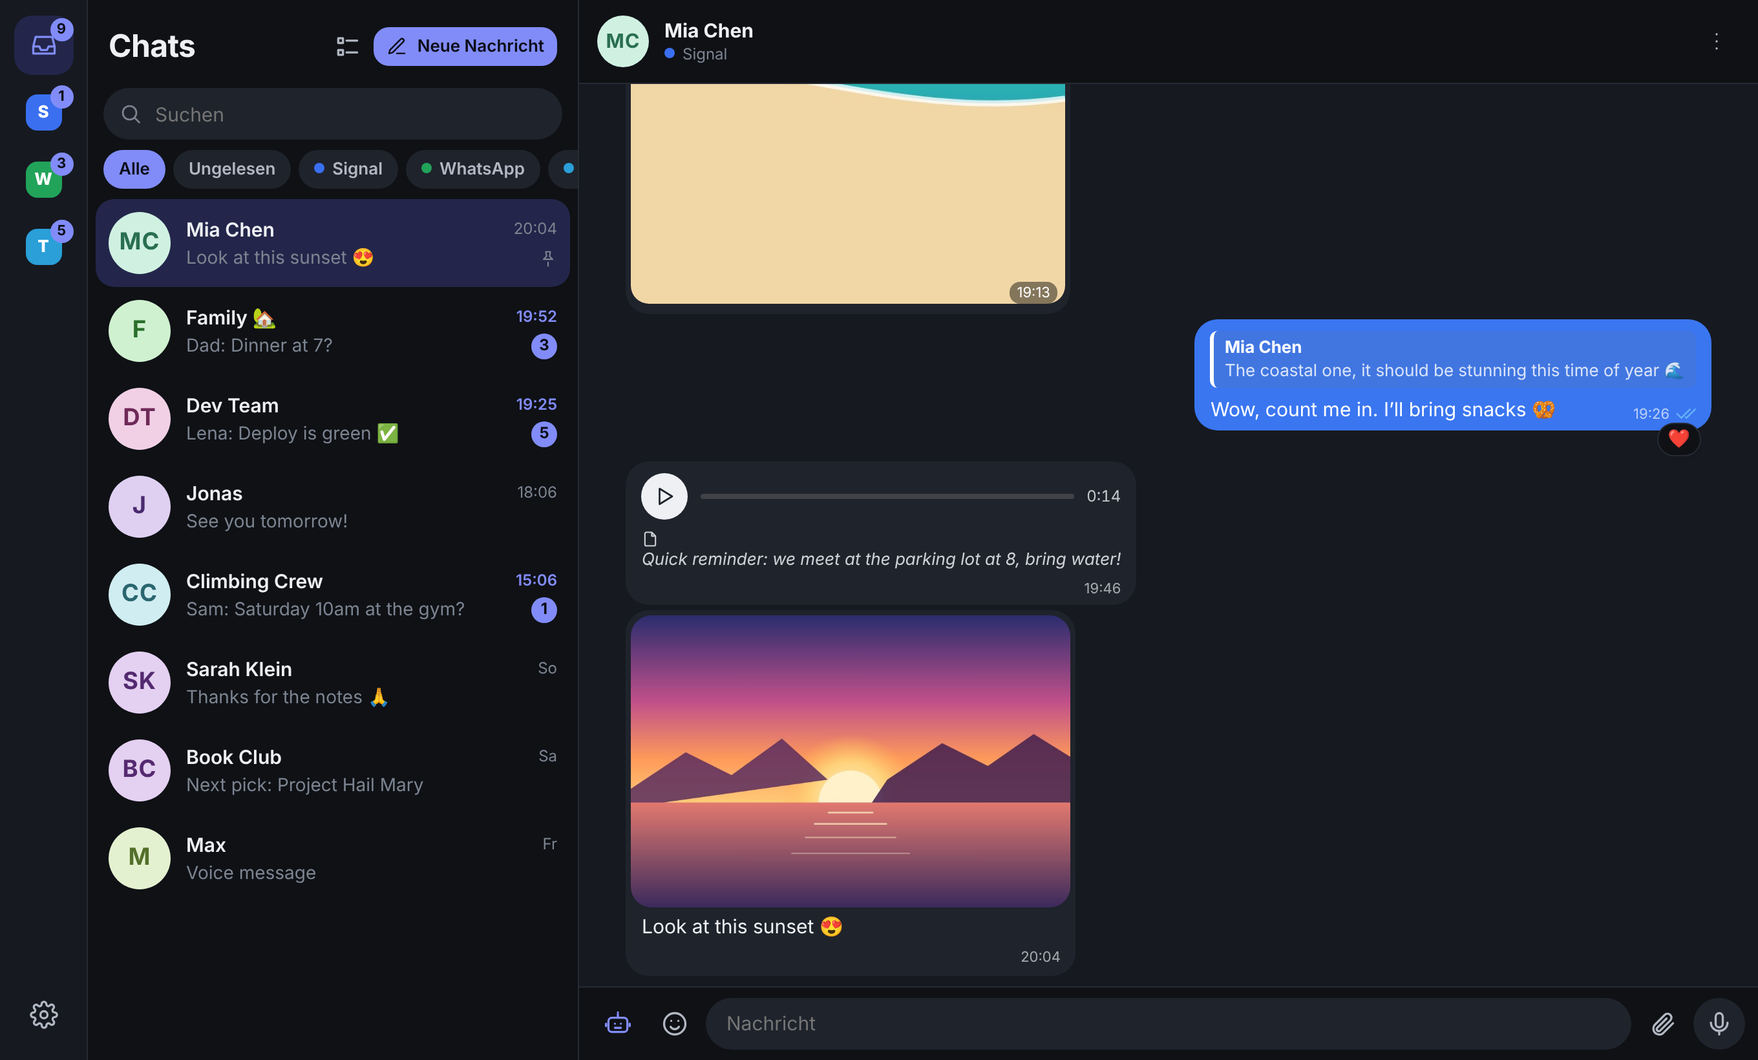
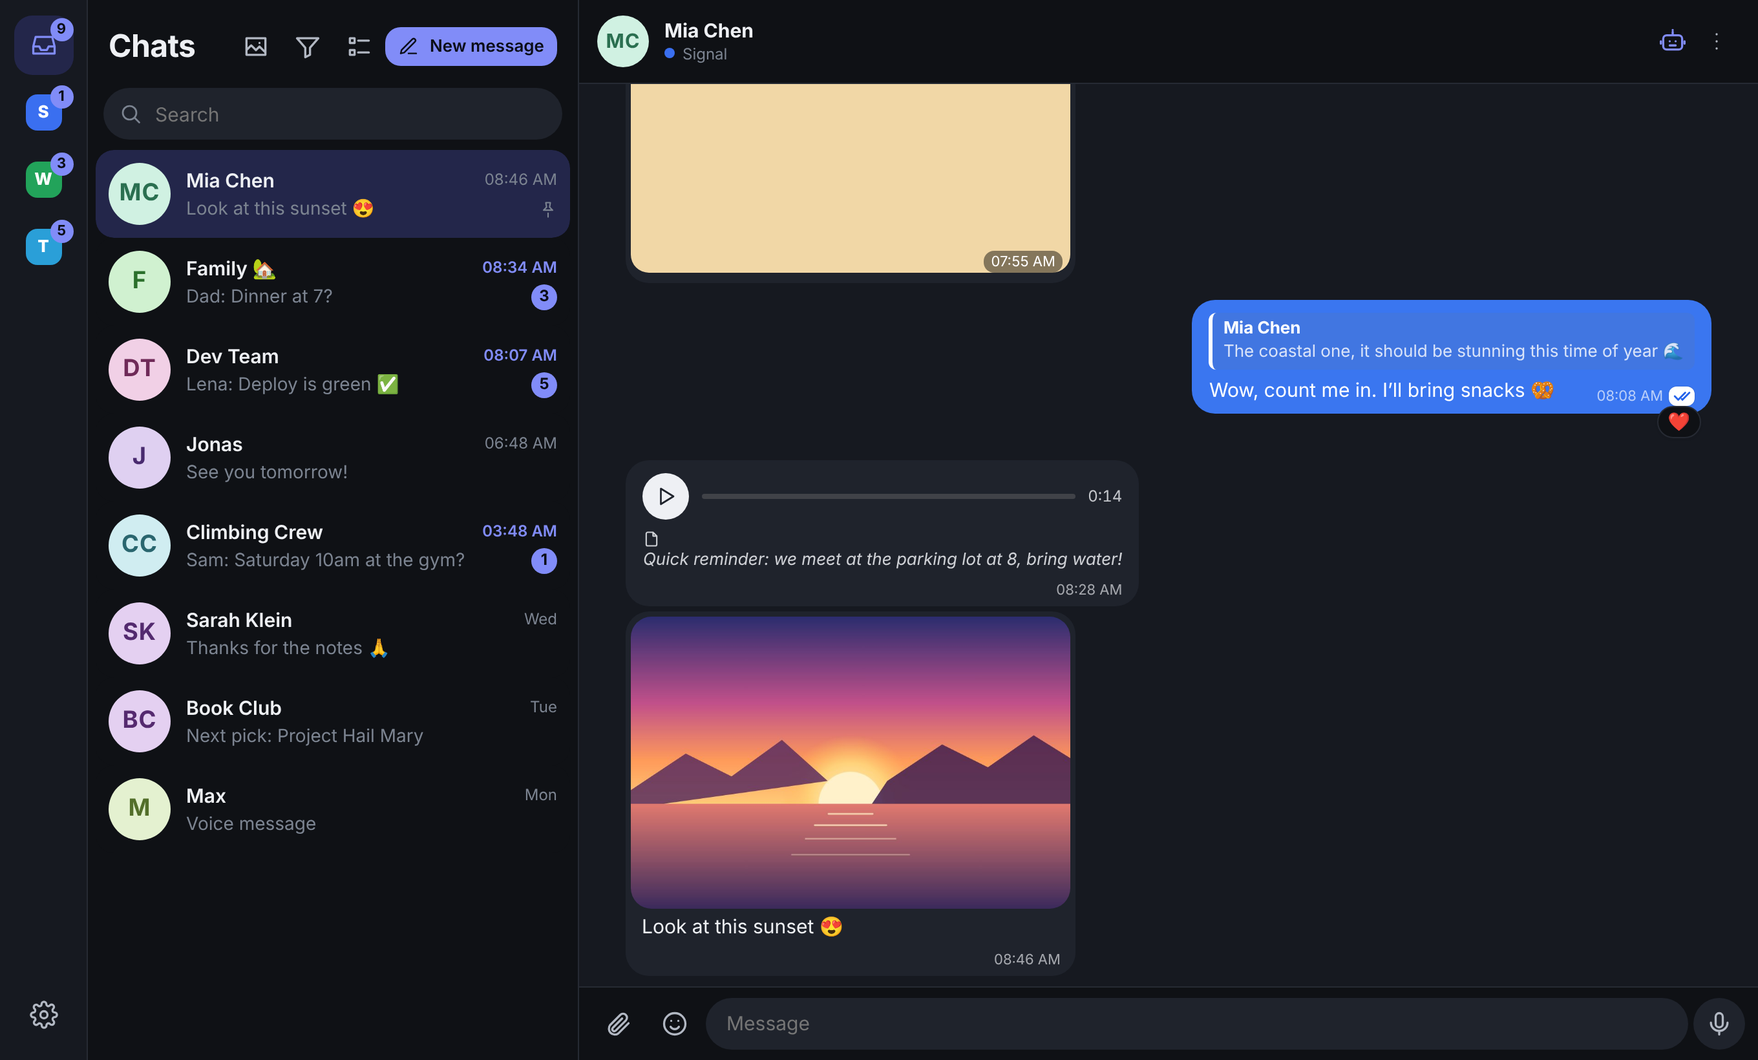
Version 0.5.0: README (en/de), Release-Notes, neue Screenshots
- README: E-Mail, Englisch/Deutsch, ChatGPT/OpenAI-kompatibel, Darstellung, Mosaik, Dateivorschau, aktuelle Wischgesten
- README.de.md an die englische Fassung angeglichen
- Screenshots mit englischer Oberfläche neu erzeugt (capture.cjs: Mocks ergänzt)

Claude-Session: https://claude.ai/code/session_011JkhW7Q2o4s9MoXKtkL4fg

diff --git a/server/src/index.ts b/server/src/index.ts
@@ -32,7 +32,7 @@ import { toOggOpusTimed, toMp3, editVideo, parseVideoEdit } from './audio.js';
 import { exportZip, slug } from './export.js';
 import * as totp from './totp.js';
 
-const VERSION = '0.4.1';
+const VERSION = '0.5.0';
 const PORT = Number(process.env.PORT ?? 8080);
 const HOST = process.env.HOST ?? '0.0.0.0';
 const require_ = createRequire(import.meta.url);

diff --git a/README.md b/README.md
@@ -5,7 +5,7 @@
 <h1 align="center">Chorus</h1>
 
 <p align="center">
-  <b>Signal, WhatsApp and Telegram in one calm, self-hosted inbox.</b><br />
+  <b>Signal, WhatsApp, Telegram and email in one calm, self-hosted inbox.</b><br />
   End-to-end on your own server · encrypted at rest · installable as an app on your phone
 </p>
 
@@ -35,49 +35,49 @@
 
 ## Why Chorus?
 
-Most of us juggle three messengers. Chorus puts every chat into one inbox that runs on **your** hardware: a Raspberry Pi, a NAS, a small VPS or a Proxmox container. You open it in any browser or install it on your phone's home screen like a native app. Your messages never pass through a third-party service.
+Most of us juggle three messengers and an inbox. Chorus puts every chat into one inbox that runs on **your** hardware: a Raspberry Pi, a NAS, a small VPS or a Proxmox container. You open it in any browser or install it on your phone's home screen like a native app. Your messages never pass through a third-party service.
 
-The interface is deliberately quiet and iOS-like: soft colours, smooth motion and nothing that blinks for attention.
-
-> The user interface is currently in **German**. An English translation is on the roadmap. Contributions are welcome.
+The interface is deliberately quiet and iOS-like: soft colours, smooth motion and nothing that blinks for attention. It speaks **English and German** (automatic by device language, switchable under Settings → Language).
 
 ## Features
 
 ### Messaging
-- **One inbox** for Signal, WhatsApp and Telegram, filterable by messenger (combine several) or "unread"
-- Replies, reactions, editing, deleting, read receipts, pinned and muted chats, drafts per chat
-- **Swipe gestures** on the phone: left to archive, right to mark as read/unread. Long-press for multi-select, pull down to refresh
+- **One inbox** for Signal, WhatsApp, Telegram and **email** (IMAP/SMTP: each sender becomes a contact, each subject a chat), filterable by messenger (combine several) or "unread"
+- Replies, reactions, editing, deleting, forwarding (also across messengers), read receipts, pinned and muted chats, drafts per chat
+- **Swipe gestures** on the phone: left to delete, right to archive, far right for read/unread. Long-press for multi-select
 - **Archive** that stays quiet: archived chats don't count towards the badge and don't notify
 - **Contact profiles** with your own alias, picture and notes; number, status and members come from the messenger
-- Profile pictures are fetched automatically and gently, without hitting rate limits
-- **Merge contacts** across messengers: the same person on Signal and WhatsApp becomes one chat with a shared history; pick in the contact profile which messenger you reply through (or let Chorus use the one they last wrote on)
+- **Merge contacts** across messengers: the same person on Signal and WhatsApp becomes one chat with a shared history; pick which messenger you reply through (or let Chorus use the one they last wrote on)
 - **Send later**: hold the send button and pick a time; scheduled messages wait in the chat until they go out
 - **Reminders** on any message ("remind me tomorrow morning"), with a notification that jumps right back to it
+- Failed messages show why they failed, with **Resend** and **Delete**
 - **Search across all messengers**: messages, transcripts and file names, with a jump to the hit in the chat
 - **Gallery** of all photos, videos, files, links and voice messages, per chat or across all chats
-- **Save to Immich or Nextcloud** (optional): link your own Immich (API key with `asset.upload`) and/or Nextcloud (app password, WebDAV) under Settings → Storage. Photos and videos go to Immich with one tap in the full-screen view, files to Nextcloud with a folder browser ("save as", new folder) and you can attach files from Nextcloud or photos from your Immich library (recent, albums, smart search) when sending; the server uploads the original, credentials stay encrypted on the server
 
 ### Media
 - Send photos, videos, voice messages and files (drag & drop or paste on the desktop)
+- Several photos in a row appear as a **mosaic**; the full-screen viewer swipes through the album, double-tap zooms
 - **Image editor** before sending: crop with fixed ratios, rotate, flip, pen, highlighter, arrows, shapes, text, pixelate, select and move, undo/redo
 - **Video editor**: trim with a thumbnail timeline and crop to 1:1, 4:3, 16:9 or 9:16 (cut on the server with ffmpeg)
-- Instant upload bubbles with progress, so you never wonder whether something is happening
-- Full-screen viewer with swipe-to-close, voice messages at 1.5×/2× with a mini player that keeps playing while you switch chats
+- In-app **file preview** (PDF, text) with share/save
+- Voice messages at 1.5×/2× with a mini player that keeps playing while you switch chats
+- **Save to Immich or Nextcloud** (optional): photos and videos go to Immich with one tap, files to Nextcloud with a folder browser; attach photos from your Immich library (recent, albums, smart search) or files from Nextcloud. The server uploads the original, credentials stay encrypted on the server
 
 ### AI assistant (optional, per chat, opt-in)
-Bring your own [Anthropic](https://console.anthropic.com) and [ElevenLabs](https://elevenlabs.io) keys:
+Bring your own key for **Claude** ([Anthropic](https://console.anthropic.com)) or **ChatGPT** ([OpenAI](https://platform.openai.com)), or point Chorus at any **OpenAI-compatible** service such as Ollama, LM Studio or OpenRouter, even locally without a key. Voice features use [ElevenLabs](https://elevenlabs.io).
 - **Summarise** a chat: what it's about, what's agreed, what's still open
-- **Write for me**: type or dictate "tell her I'm at the gym and will call later" and send it as text or as a voice message **in your own (cloned) voice**. Everything the AI wrote is marked with a 🤖 reaction (on Telegram, which does not allow it as a reaction, with a 🤖 at the end)
-- **Suggested replies**, optionally with a direction ("politely decline")
+- **Reply suggestions** as chips above the input field, and on request with a direction ("politely decline")
+- **Write for me**: type or dictate "tell her I'm at the gym and will call later" and send it as text or as a voice message **in your own (cloned) voice**. Everything the AI wrote can be marked with 🤖
 - **Transcribe** voice messages
-- **Live translation** per chat: foreign messages get a German translation under the bubble (with the source language), and what you write in German goes out in their language (can be switched off per chat or per message)
+- **Live translation** per chat: foreign messages get a translation into your language under the bubble, and what you write goes out in theirs (switchable per chat or per message)
 - **Ask your chats**: "When did Lisa want to come over?" gets an answer with the messages it is based on
-- **Autobot**: Claude answers on your behalf up to a limit you set, in groups you choose what it answers (questions to everyone, only mentions and replies to you, or everything), from whom, under which condition and in which style (like you, short, or creative). Answers are marked with a 🤖 reaction
+- **Autobot**: the AI answers on your behalf up to a limit you set; in groups you choose what it answers, from whom, under which condition and in which style
 
-Nothing is sent to an AI provider unless you enable AI for that chat and press a button.
+Nothing is sent to an AI provider unless you allow AI for that chat. You can revoke it at any time.
 
 ### Everyday comfort
-- Installable **PWA** with Web Push notifications, light and dark mode, bubble colours per messenger
+- Installable **PWA** with Web Push notifications, light and dark mode
+- **Appearance**: bubble colours per messenger or one colour everywhere (palette or any custom colour), **chat backgrounds** (presets or your own photo), optional iMessage-style send animation
 - **Multiple profiles** for family and friends, each with its own password, 2FA, messengers and AI keys. Each profile is encrypted separately, so even the admin can't read other people's chats
 - **Export** of your history as HTML or ZIP, automatic saving of media
 - Admin area: server health, recent warnings, reconnect messengers, restart
@@ -128,6 +128,7 @@ docker compose build && docker run --rm -p 8080:8080 -e DEMO=1 chorus-chorus
 | --- | --- | --- |
 | **Signal** | Scan a QR code (Signal → Settings → Linked devices → +) | Runs as a linked device via [signal-cli](https://github.com/AsamK/signal-cli). Signal doesn't transfer old history, so you see everything from the moment of linking. |
 | **WhatsApp** | Scan a QR code or enter a pairing code | Uses the unofficial [Baileys](https://github.com/WhiskeySockets/Baileys) library. **Unofficial clients violate WhatsApp's terms of service and accounts can be banned.** Bans are rare for normal personal use and mostly hit accounts that send bulk or automated messages or are brand new, but they can't be ruled out. Chorus shows this warning and asks for confirmation before linking. Use at your own risk and open WhatsApp on your phone at least every 14 days. |
+| **Email** | Address and (app) password; IMAP/SMTP servers are detected for common providers | Gmail, iCloud and Yahoo need an app password. Newsletters are hidden by default. |
 | **Telegram** | Create an app at [my.telegram.org/apps](https://my.telegram.org/apps), enter `api_id` and `api_hash`, then log in by QR code or phone number | Uses [GramJS](https://github.com/gram-js/gramjs). |
 
 ## Configuration
@@ -152,7 +153,8 @@ Browser / PWA (React 19, Vite)  ──HTTPS/WebSocket──▶  Chorus server (N
                                                         ├─ WhatsApp  → Baileys
                                                         ├─ Telegram  → GramJS
                                                         ├─ Vault     → SQLCipher + AES-GCM files
-                                                        └─ AI        → Anthropic API, ElevenLabs (optional)
+                                                        ├─ Email     → IMAP/SMTP (ImapFlow, Nodemailer)
+                                                        └─ AI        → Anthropic or OpenAI-compatible API, ElevenLabs (optional)
 ```
 
 ## Development
@@ -162,6 +164,8 @@ cd server && npm install && DEMO=1 PORT=8099 npm run dev
 cd web && npm install && npm run dev        # http://localhost:5173
 cd server && npm test
 ```
+
+Translations live in `web/src/locales/` (the German source text is the key). To add a language, copy `en.json`, translate the values and register it in `web/src/i18n.ts`.
 
 The README screenshots use sample data: `node docs/screenshots/capture.cjs http://localhost:8099` (needs Playwright).
 

diff --git a/README.de.md b/README.de.md
@@ -1,37 +1,81 @@
-# Chorus – alle Messenger in einer App
+<p align="center">
+  <img src="docs/icon.svg" width="96" alt="Chorus" />
+</p>
 
-> 🇬🇧 [English version](README.md)
+<h1 align="center">Chorus</h1>
 
-Eine selbst gehostete WebApp, die **Telegram**, **Signal** und **WhatsApp** in einem gemeinsamen Posteingang vereint. Läuft als Docker-Container auf deinem eigenen Server, funktioniert im Browser am Computer und als installierbare App auf dem Handy.
+<p align="center">
+  <b>Signal, WhatsApp, Telegram und E-Mail in einem ruhigen, selbst gehosteten Posteingang.</b><br />
+  Auf deinem eigenen Server · verschlüsselt gespeichert · als App aufs Handy installierbar
+</p>
+
+<p align="center">🇬🇧 <a href="README.md">English version</a></p>
+
+<p align="center">
+  <img src="docs/screenshots/desktop.png" alt="Chorus am Computer" width="900" />
+</p>
+
+<p align="center">
+  <img src="docs/screenshots/mobile-list.png" alt="Chatliste am Handy" width="260" />
+  &nbsp;
+  <img src="docs/screenshots/mobile-chat-dark.png" alt="Ein Chat im Dunkelmodus" width="260" />
+  &nbsp;
+  <img src="docs/screenshots/mobile-settings.png" alt="Einstellungen im iOS-Stil" width="260" />
+</p>
+
+> **Mit Claude gebaut.** Chorus entsteht zusammen mit [Claude](https://claude.ai), dem KI-Modell von Anthropic, über Claude Code. Ein Mensch entscheidet, was gebaut wird, und testet es jeden Tag; den Großteil des Codes schreibt Claude.
+
+Chorus läuft als Docker-Container auf deinem eigenen Server (Raspberry Pi, NAS, kleiner VPS, Proxmox-Container), im Browser am Computer und als installierbare App auf dem Handy. Die Oberfläche gibt es auf **Deutsch und Englisch**: automatisch nach Gerätesprache, umstellbar unter Einstellungen → Sprache.
 
 | Messenger | Stand |
 | --- | --- |
-| Telegram | ✅ eingebaut (QR-Code oder Telefonnummer) |
-| Signal | ✅ eingebaut (QR-Code, als gekoppeltes Gerät) |
-| WhatsApp | ✅ eingebaut (QR-Code oder Kopplungscode, inoffiziell über Baileys) |
+| Signal | ✅ QR-Code, als gekoppeltes Gerät |
+| WhatsApp | ✅ QR-Code oder Kopplungscode, inoffiziell über Baileys |
+| Telegram | ✅ QR-Code oder Telefonnummer |
+| E-Mail | ✅ IMAP/SMTP: Absender als Kontakt, Betreffe als Chats |
 
 ## Was die App kann
 
-- Ein Posteingang für alle Chats, filterbar nach Messenger oder „Ungelesen“
-- Nachrichten, Antworten auf Nachrichten, Bearbeiten, Löschen
-- Mit Emojis reagieren (Rechtsklick, langes Drücken oder Doppelklick für ❤)
-- Bilder, Videos und Dateien senden und herunterladen (auch per Drag & Drop oder Einfügen)
-- Sprachnachrichten aufnehmen und abspielen (mit 1,5×/2× Geschwindigkeit)
-- Desktop: große Drei-Spalten-Ansicht. Handy: Liste und Chat wie bei Signal
-- Hell- und Dunkelmodus, Benachrichtigungen, Entwürfe pro Chat
+### Nachrichten
+- **Ein Posteingang** für alle Chats, filterbar nach Messenger (auch mehrere) oder „Ungelesen“
+- Antworten, Reaktionen, Bearbeiten, Löschen, **Weiterleiten** (auch messengerübergreifend), Lesebestätigungen, angepinnte und stumme Chats, Entwürfe pro Chat
+- **Wischen** am Handy: links löschen, rechts archivieren, weit rechts gelesen/ungelesen. Lange drücken für Mehrfachauswahl
+- **Archiv**, das still bleibt: archivierte Chats zählen nicht im Badge und melden sich nicht
+- **Kontaktprofile** mit eigenem Namen, Bild und Notiz; Nummer, Status und Mitglieder kommen vom Messenger
+- **Kontakte zusammenführen**: dieselbe Person bei Signal und WhatsApp wird ein Chat mit gemeinsamem Verlauf
+- **Später senden**: Senden gedrückt halten und Zeit wählen
+- **Erinnerungen** an jede Nachricht, mit Benachrichtigung, die direkt zurück in den Chat springt
+- Fehlgeschlagene Nachrichten zeigen den Grund, mit **Erneut senden** und **Löschen**
+- **Suche über alle Messenger**: Nachrichten, Transkripte und Dateinamen, mit Sprung zum Treffer
+- **Galerie** mit allen Fotos, Videos, Dateien, Links und Sprachnachrichten, pro Chat oder über alle
 
-## KI-Assistent (freiwillig)
+### Medien
+- Fotos, Videos, Sprachnachrichten und Dateien senden (am Computer auch per Drag & Drop oder Einfügen)
+- Mehrere Fotos hintereinander erscheinen als **Mosaik**, das Vollbild blättert durchs Album, Doppeltippen zoomt
+- **Bildeditor** vor dem Senden: Zuschneiden, Drehen, Spiegeln, Stift, Marker, Pfeile, Formen, Text, Verpixeln
+- **Videoeditor**: Kürzen und Zuschneiden (1:1, 4:3, 16:9, 9:16), geschnitten auf dem Server mit ffmpeg
+- **Dateivorschau** in der App (PDF, Text) mit Teilen/Sichern
+- Sprachnachrichten mit 1,5×/2× und Mini-Player, der beim Chatwechsel weiterspielt
+- **In Immich oder Nextcloud speichern** (freiwillig): Fotos und Videos mit einem Tipp nach Immich, Dateien mit Ordnerauswahl nach Nextcloud; beim Anhängen Fotos aus Immich (Neueste, Alben, Smart-Suche) oder Dateien aus Nextcloud wählen
 
-Im Chat unten links im Eingabefeld auf den Roboter tippen:
-
+### KI-Assistent (freiwillig, pro Chat)
+Mit eigenem Schlüssel für **Claude** ([Anthropic](https://console.anthropic.com)) oder **ChatGPT** ([OpenAI](https://platform.openai.com)), oder einem **OpenAI-kompatiblen** Dienst wie Ollama, LM Studio oder OpenRouter, auch lokal ohne Schlüssel. Sprachfunktionen laufen über [ElevenLabs](https://elevenlabs.io).
 - **Zusammenfassen**: worum es geht, was vereinbart ist, was offen ist
-- **Nachricht schreiben lassen**: z. B. „sag, dass ich beim Sport bin und mich später melde“ eintippen oder einsprechen, dann als Text oder als Sprachnachricht in deiner Stimme senden
-- **Autopilot**: Claude antwortet selbst, bis das eingestellte Limit (1 bis 20 Antworten) erreicht ist, dann schaltet er sich ab. In Gruppen nur, wenn jemand eine Frage stellt, dich erwähnt oder dir antwortet. Antworten werden auf Wunsch mit einer 🤖-Reaktion markiert (Telegram: „– 🤖“ am Ende, weil Telegram 🤖 nicht als Reaktion erlaubt)
-- **Antworten vorschlagen**: drei passende Antworten, antippen übernimmt sie ins Eingabefeld (optional mit Richtung, z. B. „freundlich absagen“)
-- **Abtippen**: Sprachnachrichten werden zu Text
-- **In deiner Stimme antworten**: geschriebenen Text als Sprachnachricht senden (Knopf neben „Senden“)
+- **Antwortvorschläge** als Chips über dem Eingabefeld, auf Wunsch mit Richtung („freundlich absagen“)
+- **Schreiben lassen**: „sag, dass ich beim Sport bin und mich später melde“ eintippen oder einsprechen, dann als Text oder als Sprachnachricht **in deiner eigenen (geklonten) Stimme** senden; KI-Texte lassen sich mit 🤖 markieren
+- **Abtippen** von Sprachnachrichten
+- **Live-Übersetzung** pro Chat: fremdsprachige Nachrichten bekommen eine Übersetzung in deine Sprache, deine Antworten gehen in der Sprache des Gegenübers raus
+- **Chats fragen**: „Wann wollte Lisa vorbeikommen?“ liefert eine Antwort samt den Nachrichten, auf denen sie beruht
+- **Autobot**: die KI antwortet in deinem Namen bis zu einem Limit; in Gruppen legst du fest, worauf, von wem, unter welcher Bedingung und in welchem Stil
 
-Einrichten unter Einstellungen → KI-Assistent: ein Claude-API-Schlüssel (Anthropic) für Text, ein ElevenLabs-Schlüssel für Sprache und eine Stimme (z. B. deine geklonte). Die KI ist pro Chat ausgeschaltet, bis du sie dort erlaubst. Erst dann und nur auf Knopfdruck gehen Nachrichten dieses Chats an Anthropic bzw. ElevenLabs.
+Einrichten unter Einstellungen → KI-Assistent. Die KI ist in jedem Chat aus, bis du sie dort erlaubst, und die Freigabe lässt sich jederzeit zurücknehmen.
+
+### Alltag
+- Installierbare **PWA** mit Push-Benachrichtigungen, Hell- und Dunkelmodus
+- **Darstellung**: Blasenfarben je Messenger oder einheitlich (Palette oder eigene Farbe), **Chat-Hintergründe** (Vorlagen oder eigenes Foto), Sende-Animation wie bei iMessage
+- **Mehrere Profile** für Familie und Freunde (siehe unten)
+- **Export** des Verlaufs als HTML oder ZIP, Medien automatisch sichern
+- Verwaltung: Serverzustand, letzte Warnungen, Messenger neu verbinden, Neustart
 
 ## Sicherheit: der Tresor
 
@@ -121,6 +165,8 @@ docker run --rm -p 8080:8080 -e DEMO=1 ghcr.io/robinvonmises/chorus:latest
 
 **Signal:** „Messenger verbinden“ → Signal → QR-Code mit dem Handy scannen (Signal → Einstellungen → Gekoppelte Geräte → +). Signal überträgt keine alten Nachrichten, du siehst alles ab der Kopplung. Die Signal-Schlüssel liegen nur im Arbeitsspeicher und verschlüsselt im Tresor.
 
+**E-Mail:** Adresse und (App-)Passwort eintragen, IMAP/SMTP-Server werden für gängige Anbieter erkannt. Gmail, iCloud und Yahoo brauchen ein App-Passwort. Newsletter werden standardmäßig ausgeblendet.
+
 **WhatsApp:** „Messenger verbinden“ → WhatsApp → QR-Code scannen (WhatsApp → Einstellungen → Verknüpfte Geräte → Gerät hinzufügen) oder am Handy per Kopplungscode. WhatsApp überträgt beim Koppeln einen Teil der letzten Chats. Wichtig: Inoffizielle Clients verstoßen gegen die WhatsApp-Nutzungsbedingungen, eine Sperre ist möglich. Öffne WhatsApp am Handy mindestens alle 14 Tage.
 
 ## Einstellungen (Umgebungsvariablen)
@@ -142,3 +188,9 @@ cd web && npm install && npm run dev   # http://localhost:5173
 ```
 
 Tests: `cd server && npm test`
+
+Übersetzungen liegen in `web/src/locales/` (Schlüssel ist der deutsche Quelltext). Für eine neue Sprache `en.json` kopieren, die Werte übersetzen und die Sprache in `web/src/i18n.ts` eintragen.
+
+## Lizenz
+
+Chorus ist freie Software unter der [GNU Affero General Public License v3.0](LICENSE).

diff --git a/docs/releases/v0.5.0.md b/docs/releases/v0.5.0.md
@@ -1,0 +1,20 @@
+## Highlights
+- **English interface.** Chorus now speaks English and German. "Automatic" picks German on German devices and English everywhere else; switch under Settings → Language. Summaries, AI replies, AI search, live translation and push notifications follow the same language.
+- **ChatGPT as a second AI provider.** Choose Claude or ChatGPT in Settings → AI assistant. Any OpenAI-compatible service (Ollama, LM Studio, OpenRouter …) works too, even locally without a key.
+- **Tidier settings.** Messengers have their own page with a status card ("All connected · synced 3 min ago") and a Sync button. The AI page is split into text, voice and privacy, with saved keys shown as a status.
+- **Appearance.** Tap a colour dot to open the palette or pick any custom colour, one uniform bubble colour is now selectable, and there are **chat backgrounds** (8 presets or your own photo, per device).
+
+## Also since 0.4.1
+- Email: archive and delete, also for whole senders
+- Photo mosaics for several photos, the full-screen viewer swipes through albums, double-tap zoom on iPhone
+- Save to Immich and Nextcloud, attach from Immich and Nextcloud, in-app file preview
+- Failed messages: see why, resend or delete
+- iMessage-style send animation (can be turned off)
+- Swipe left to delete, right to archive; filter bar can be hidden
+- Revoke AI access per chat; WhatsApp terms-of-service warning before linking
+
+## Upgrade
+```bash
+docker compose pull && docker compose up -d
+```
+With automatic updates set up, nothing to do. The app language follows your device; German users keep German.
